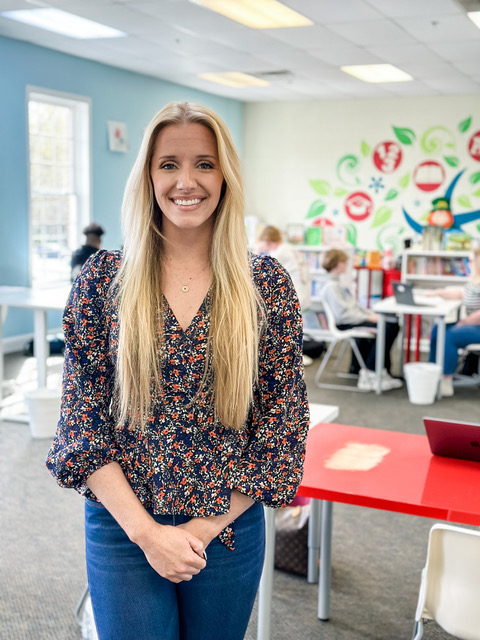
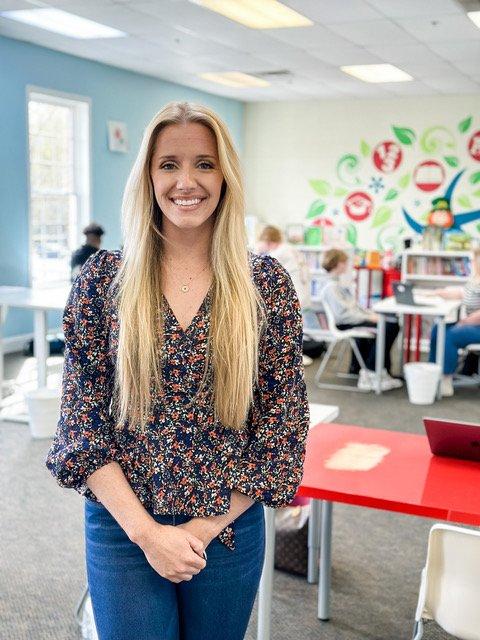
Host director headshots locally and add them to center pages
Kelli, Julia and Hannah photos copied from the live homepage, resized
to 480x640 with photo metadata removed (Julia's was 5.9 MB).

Claude-Session: https://claude.ai/code/session_01VnKtD8zhS2EM6o1xxhbPp9

Changed region(s): [[0.2188, 0.4062, 0.6562, 0.8125], [0.0938, 0.4062, 0.25, 0.75], [0.2188, 0.375, 0.25, 0.4062]]

diff --git a/index.html b/index.html
@@ -1640,13 +1640,13 @@ button { font-family: inherit; cursor: pointer; border: none; background: none; 
 </div>
 <div class="directors-grid">
 <div class="director-card">
-<img alt="Ms. Kelli, Director of Lazar Center Fort Mill" class="director-photo" src="https://storage.googleapis.com/logo-references/Kelli%20Headshot"/>
+<img alt="Ms. Kelli, Director of Lazar Center Fort Mill" class="director-photo" src="/assets/kelli-headshot.jpg"/>
 <div class="director-name">Ms. Kelli</div>
 <div class="director-role">Director</div>
 <div class="director-location">Fort Mill, SC</div>
 </div>
 <div class="director-card">
-<img alt="Ms. Julia, Director of Lazar Center Tega Cay" class="director-photo" src="https://storage.googleapis.com/logo-references/New%20Julia%20Headshot.JPG"/>
+<img alt="Ms. Julia, Director of Lazar Center Tega Cay" class="director-photo" src="/assets/julia-headshot.jpg"/>
 <div class="director-name">Ms. Julia</div>
 <div class="director-role">Director</div>
 <div class="director-location">Tega Cay, SC</div>

diff --git a/tega-cay.html b/tega-cay.html
@@ -1380,7 +1380,7 @@ button { font-family: inherit; cursor: pointer; border: none; background: none; 
 </div></section>
 
 <section class="cp-sec" id="director" style="background:var(--sky-pale,#deeef8)"><div class="container dir">
-  <div class="ph" aria-hidden="true">J</div>
+  <img src="/assets/julia-headshot.jpg" alt="Ms. Julia, director of Lazar Tega Cay" loading="lazy" width="200" height="240">
   <div><div class="eyebrow" style="color:var(--red)">Meet your director</div>
   <h2>Ms. Julia, Lazar Tega Cay</h2>
   <p>Ms. Julia leads the Tega Cay center. One Tega Cay parent credits her with helping their daughter through SAT prep, college essays and English. Like every Lazar director, she lives and works in the community she serves.</p><blockquote class="quote">“Thank you, Julia, for all the help you gave Caroline. I really feel that you helped strengthen her abilities in English and I know this will help her in college next year.”<cite>Lauren R., Tega Cay parent · Google review</cite></blockquote>

diff --git a/fort-mill.html b/fort-mill.html
@@ -1380,7 +1380,7 @@ button { font-family: inherit; cursor: pointer; border: none; background: none; 
 </div></section>
 
 <section class="cp-sec" id="director" style="background:var(--sky-pale,#deeef8)"><div class="container dir">
-  <div class="ph" aria-hidden="true">K</div>
+  <img src="/assets/kelli-headshot.jpg" alt="Ms. Kelli, director of Lazar Fort Mill" loading="lazy" width="200" height="240">
   <div><div class="eyebrow" style="color:var(--red)">Meet your director</div>
   <h2>Ms. Kelli, Lazar Fort Mill</h2>
   <p>Ms. Kelli leads the Fort Mill center. Like every Lazar director, she lives and works in the community she serves.</p>
